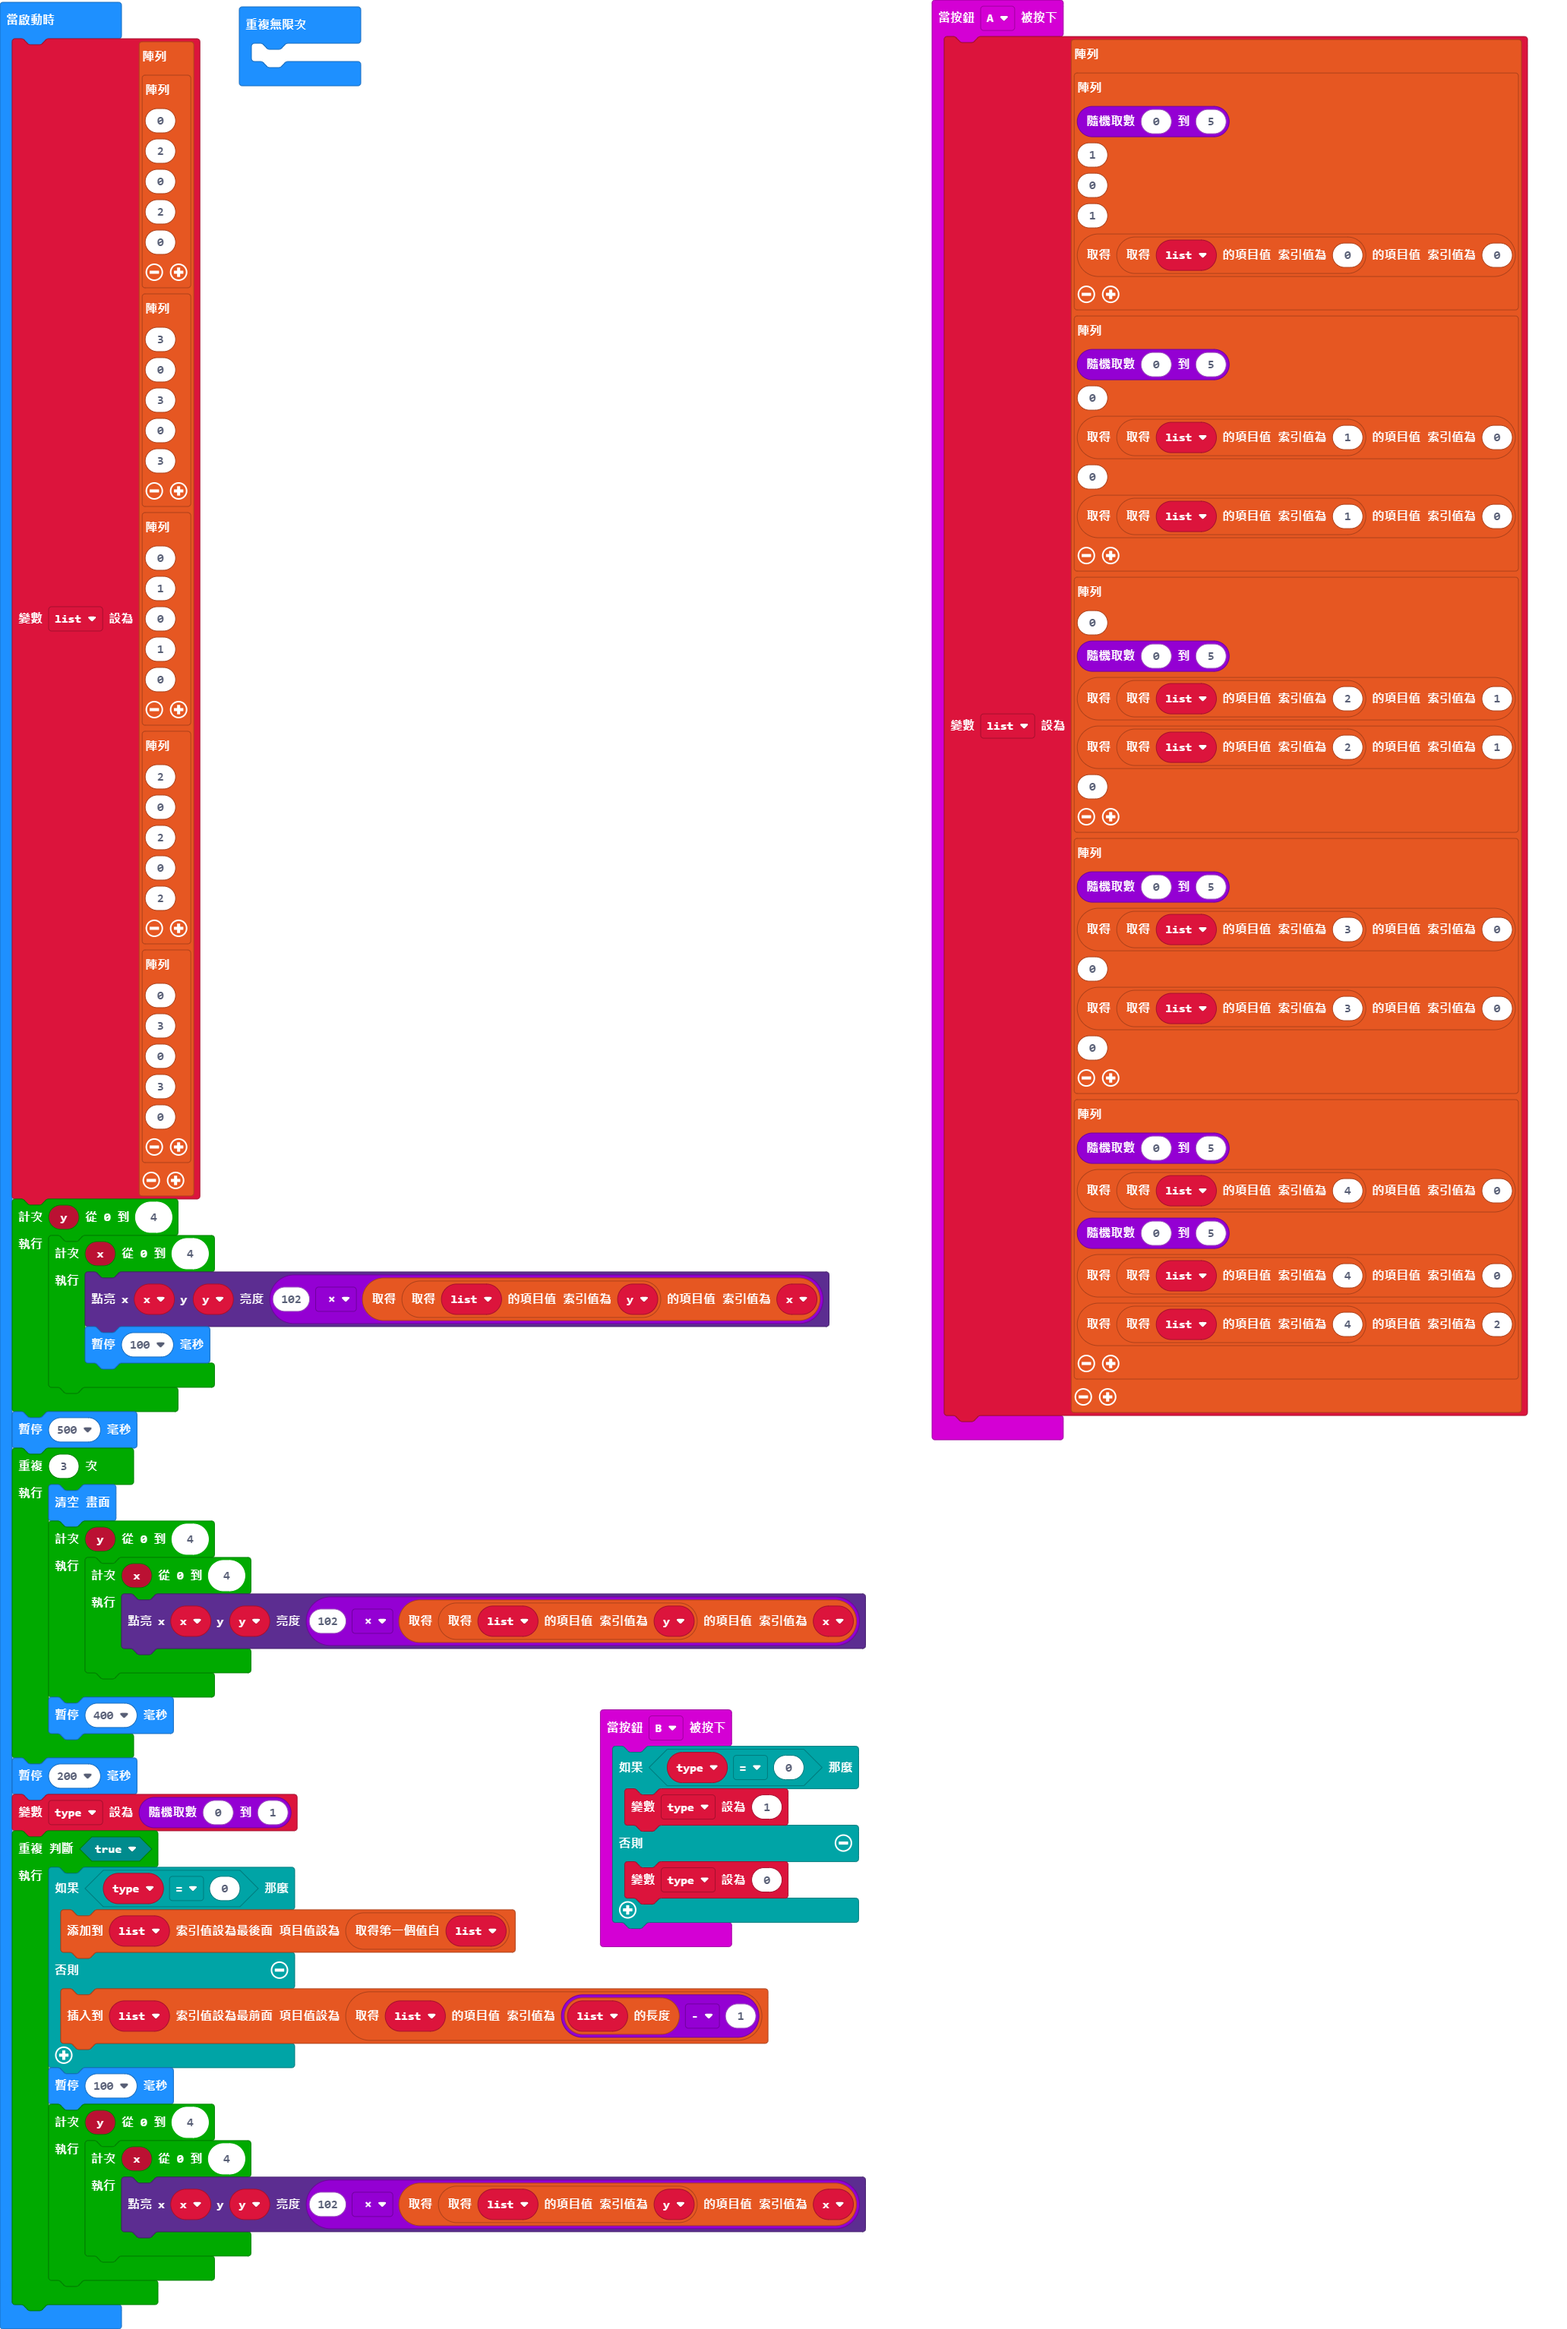
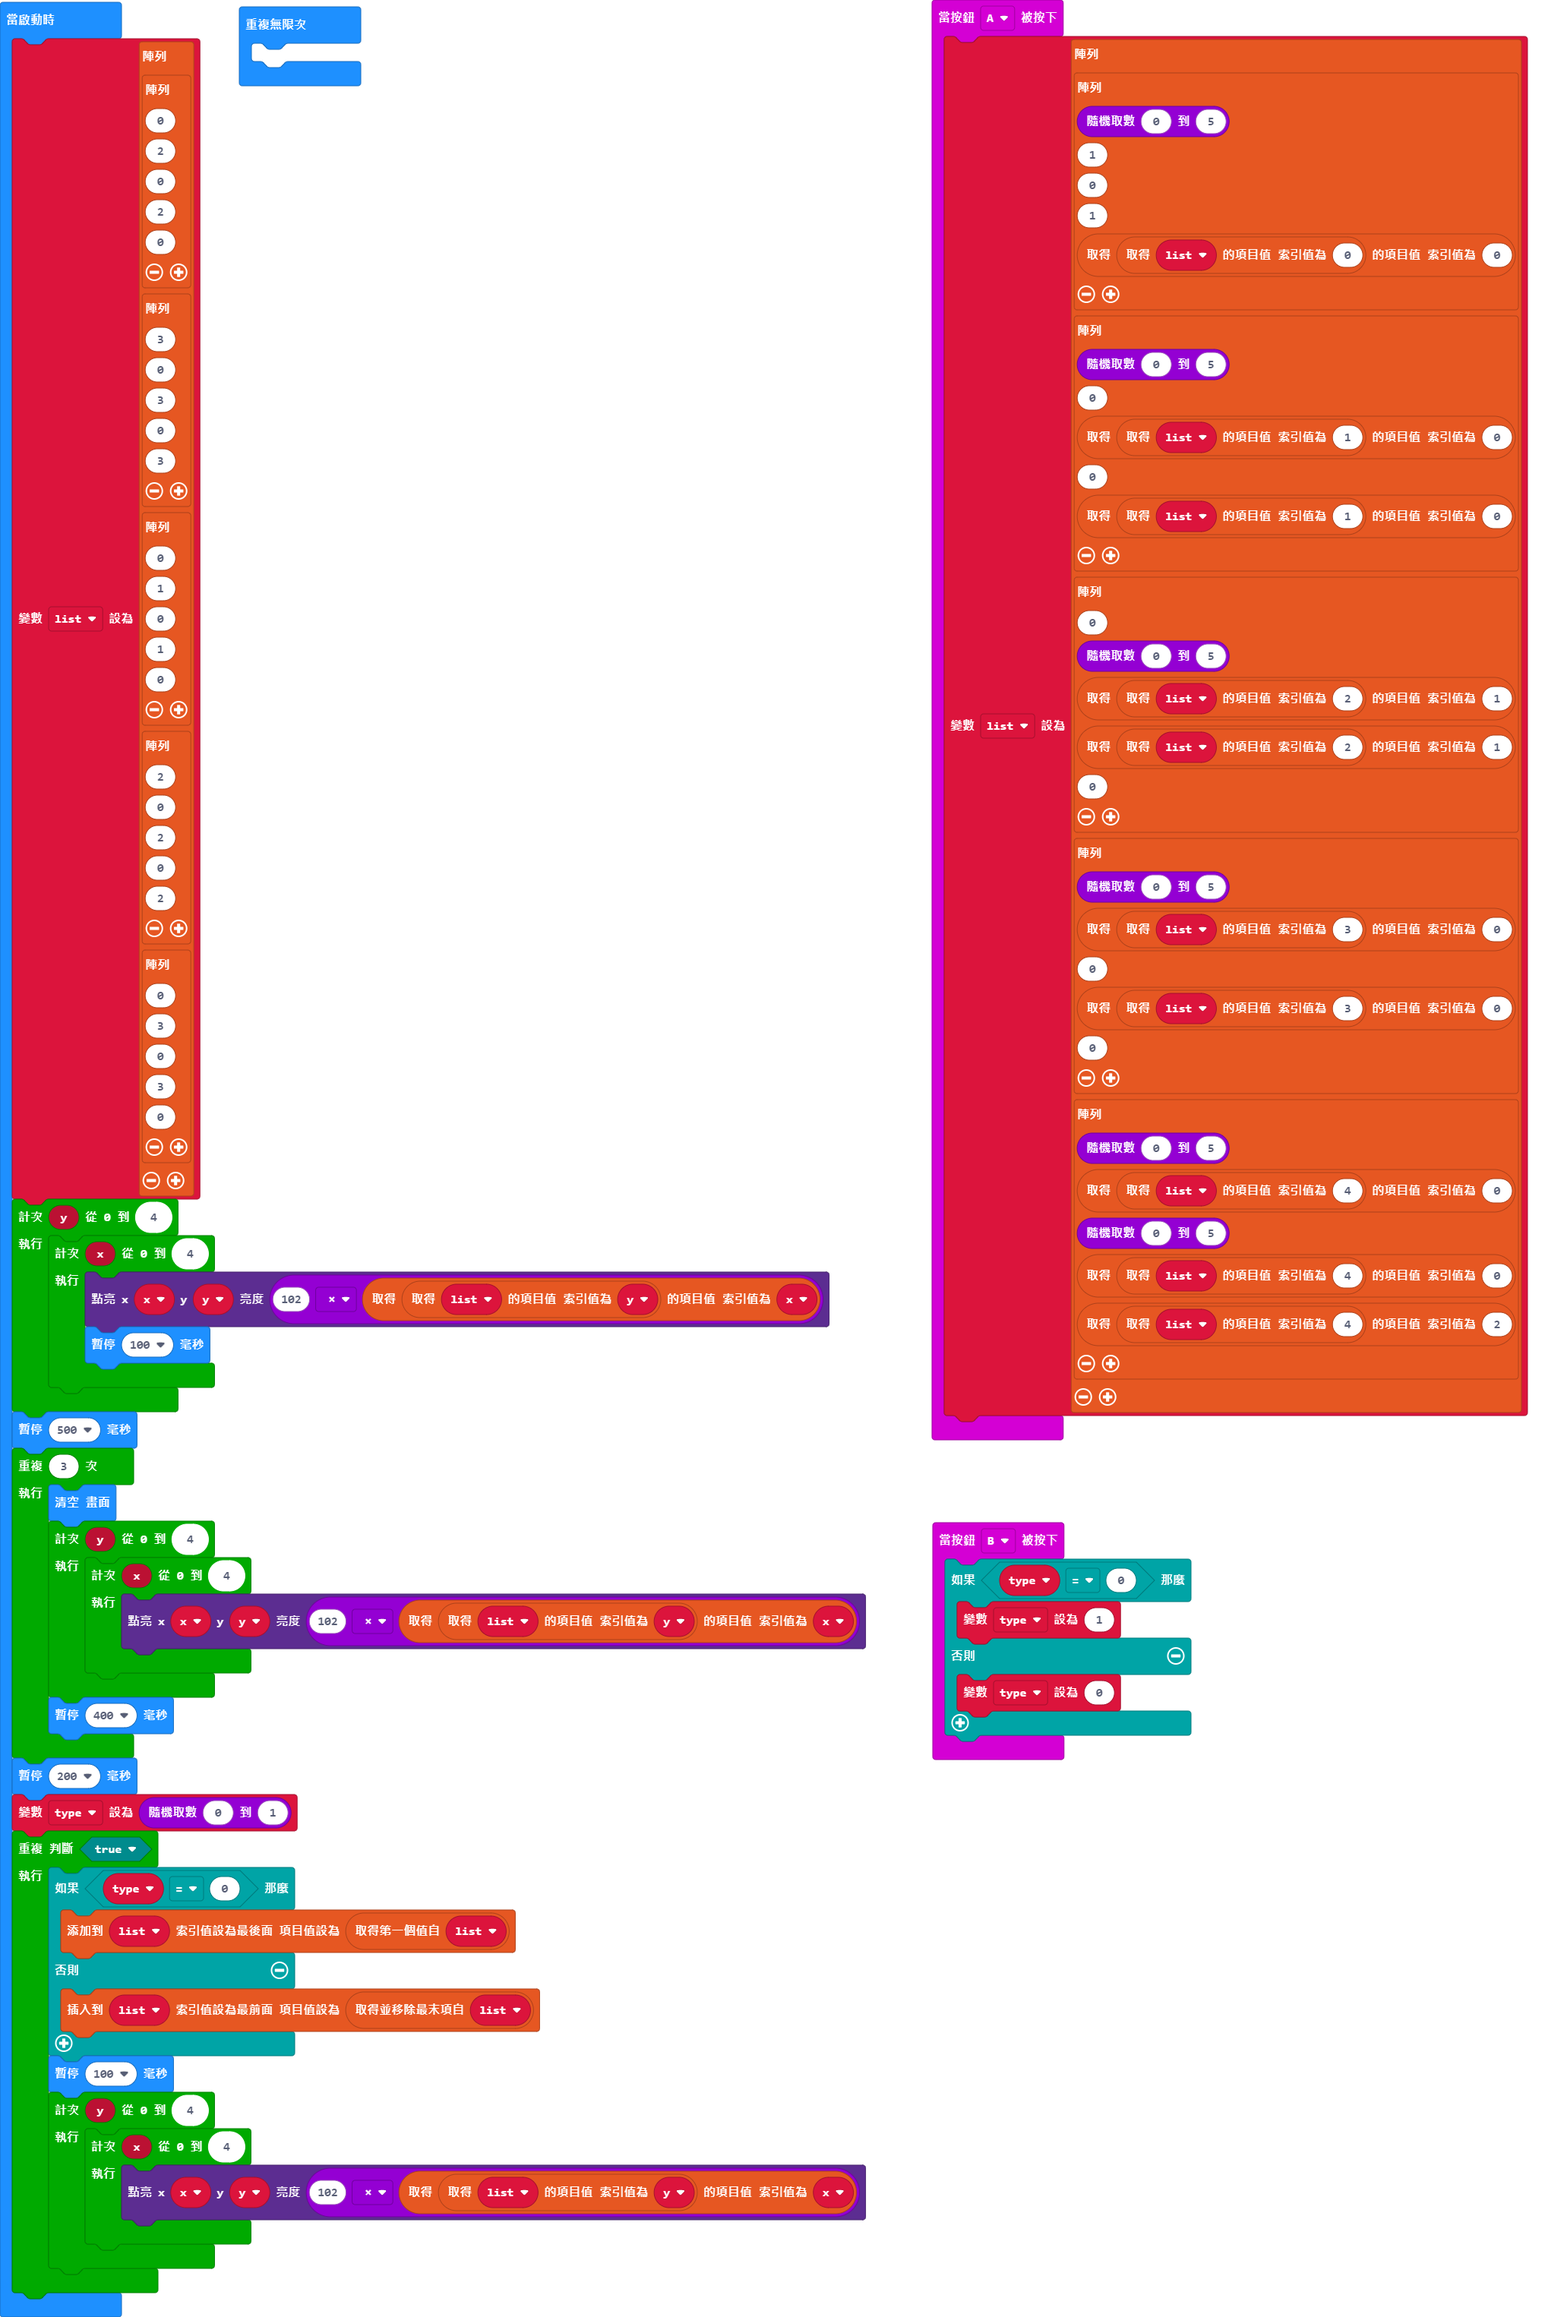
完成上下移動交替，還可以隨機變換造型

diff --git a/main.ts b/main.ts
@@ -105,7 +105,7 @@ while (true) {
     if (_type == 0) {
         list.push(list.shift())
     } else {
-        list.unshift(list[list.length - 1])
+        list.unshift(list.pop())
     }
     basic.pause(100)
     for (let y = 0; y <= 4; y++) {

diff --git a/main.py b/main.py
@@ -1,31 +1,5 @@
-list2 = [[0, 2, 0, 2, 0],
-    [5, 0, 5, 0, 5],
-    [0, 2, 0, 2, 0],
-    [4, 0, 4, 0, 4],
-    [0, 3, 0, 3, 0]]
-for y in range(5):
-    for x in range(5):
-        led.plot_brightness(x, y, 51 * list2[y][x])
-        basic.pause(100)
-basic.pause(500)
-for index in range(3):
-    basic.clear_screen()
-    basic.pause(200)
-    for y2 in range(5):
-        for x2 in range(5):
-            led.plot_brightness(x2, y2, 51 * list2[y2][x2])
-    basic.pause(200)
-basic.clear_screen()
-while True:
-    for index2 in range(randint(30, 50)):
-        if randint(0, 1) == 0:
-            list2.unshift(list2.pop())
-        else:
-            list2.append(list2.shift())
-        basic.pause(100)
-        for y3 in range(5):
-            for x3 in range(5):
-                led.plot_brightness(x3, y3, 51 * list2[y3][x3])
+def on_button_pressed_a():
+    global list2
     list2 = [[randint(0, 5), 1, 0, 1, list2[0][0]],
         [randint(0, 5), 0, list2[1][0], 0, list2[1][0]],
         [0, randint(0, 5), list2[2][1], list2[2][1], 0],
@@ -35,6 +9,45 @@ while True:
             randint(0, 5),
             list2[4][0],
             list2[4][2]]]
+input.on_button_pressed(Button.A, on_button_pressed_a)
+
+def on_button_pressed_b():
+    global _type
+    if _type == 0:
+        _type = 1
+    else:
+        _type = 0
+input.on_button_pressed(Button.B, on_button_pressed_b)
+
+_type = 0
+list2: List[List[number]] = []
+list2 = [[0, 2, 0, 2, 0],
+    [3, 0, 3, 0, 3],
+    [0, 1, 0, 1, 0],
+    [2, 0, 2, 0, 2],
+    [0, 3, 0, 3, 0]]
+for y in range(5):
+    for x in range(5):
+        led.plot_brightness(x, y, 102 * list2[y][x])
+        basic.pause(100)
+basic.pause(500)
+for index in range(3):
+    basic.clear_screen()
+    for y2 in range(5):
+        for x2 in range(5):
+            led.plot_brightness(x2, y2, 102 * list2[y2][x2])
+    basic.pause(400)
+basic.pause(200)
+_type = randint(0, 1)
+while True:
+    if _type == 0:
+        list2.append(list2.shift())
+    else:
+        list2.unshift(list2.pop())
+    basic.pause(100)
+    for y3 in range(5):
+        for x3 in range(5):
+            led.plot_brightness(x3, y3, 102 * list2[y3][x3])
 
 def on_forever():
     pass
